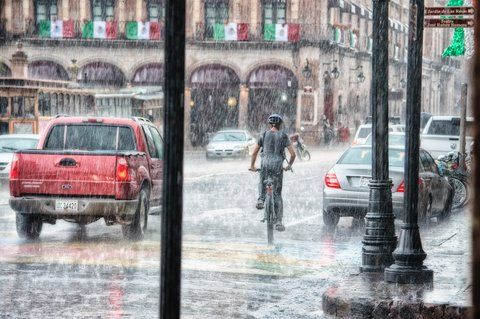
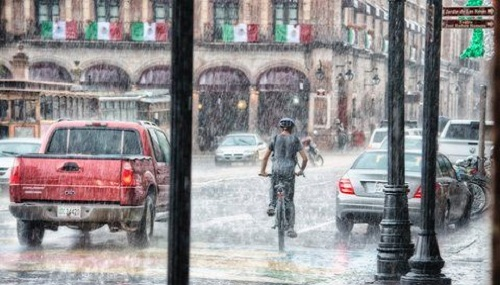
Index CSS changes and new images

diff --git a/assignments/lesson-9/index.html b/assignments/lesson-9/index.html
@@ -59,17 +59,17 @@
 
     <div class="stats">
       <div class="cityData order">
-        <img src="images/franklin-city-small.jpg" alt="Franklin County, MN">
+        <img src="images/franklin-city.jpg" alt="Franklin County, MN">
         <div id="franklinCity"></div>
       </div>
 
       <div class="cityData">
         <div id="Springfield"></div>
-        <img src="images/franklin-city-small.jpg" alt="Springfield, MN">
+        <img src="images/sunshine.jpg" alt="Springfield, MN">
       </div>
 
       <div class="cityData order">
-        <img src="images/franklin-city-small.jpg" alt="Greenville, MN">
+        <img src="images/greenville-city.jpg" alt="Greenville, MN">
         <div id="Greenville"></div>
       </div>
     </div>

diff --git a/assignments/lesson-9/styles/main-9.css b/assignments/lesson-9/styles/main-9.css
@@ -427,6 +427,10 @@ input[type="range"] {
   padding: 10px;
 }
 
+.cityData img {
+  max-width: 486px;
+  height: auto;
+}
 .order {
   display: flex;
   flex-direction: column-reverse;
@@ -438,6 +442,7 @@ td {
 .cityData img {
   max-height: 250px;
   object-fit: cover;
+  object-position: bottom-right;
 }
 
 #franklinCity, #Springfield, #Greenville {

diff --git a/assignments/lesson-9/styles/large-9.css b/assignments/lesson-9/styles/large-9.css
@@ -112,8 +112,12 @@
   }
 
   .headline div {
-    height: 295px;
+    height: 265px;
     margin-top: 0px;
+  }
+
+  .headline img {
+    padding: 0px 0px 0px 20px;
   }
 
   .cityData img {
